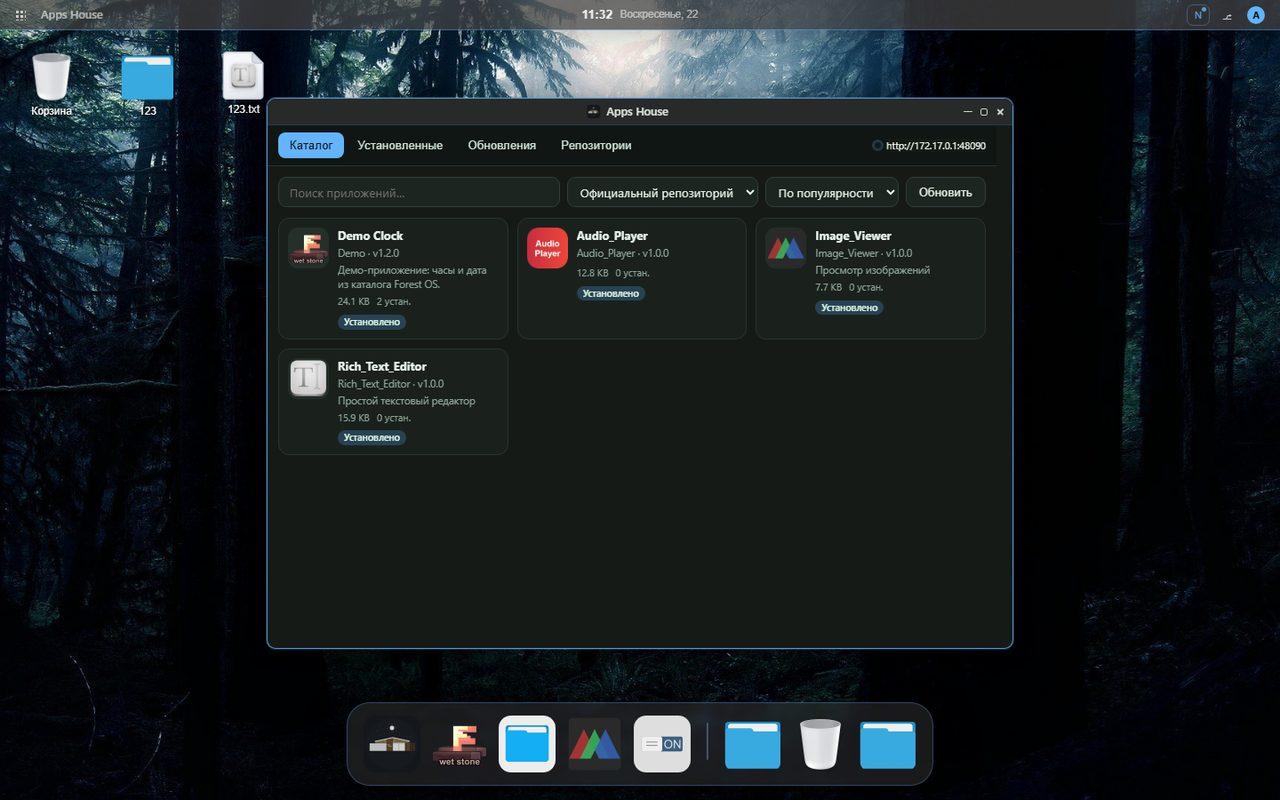
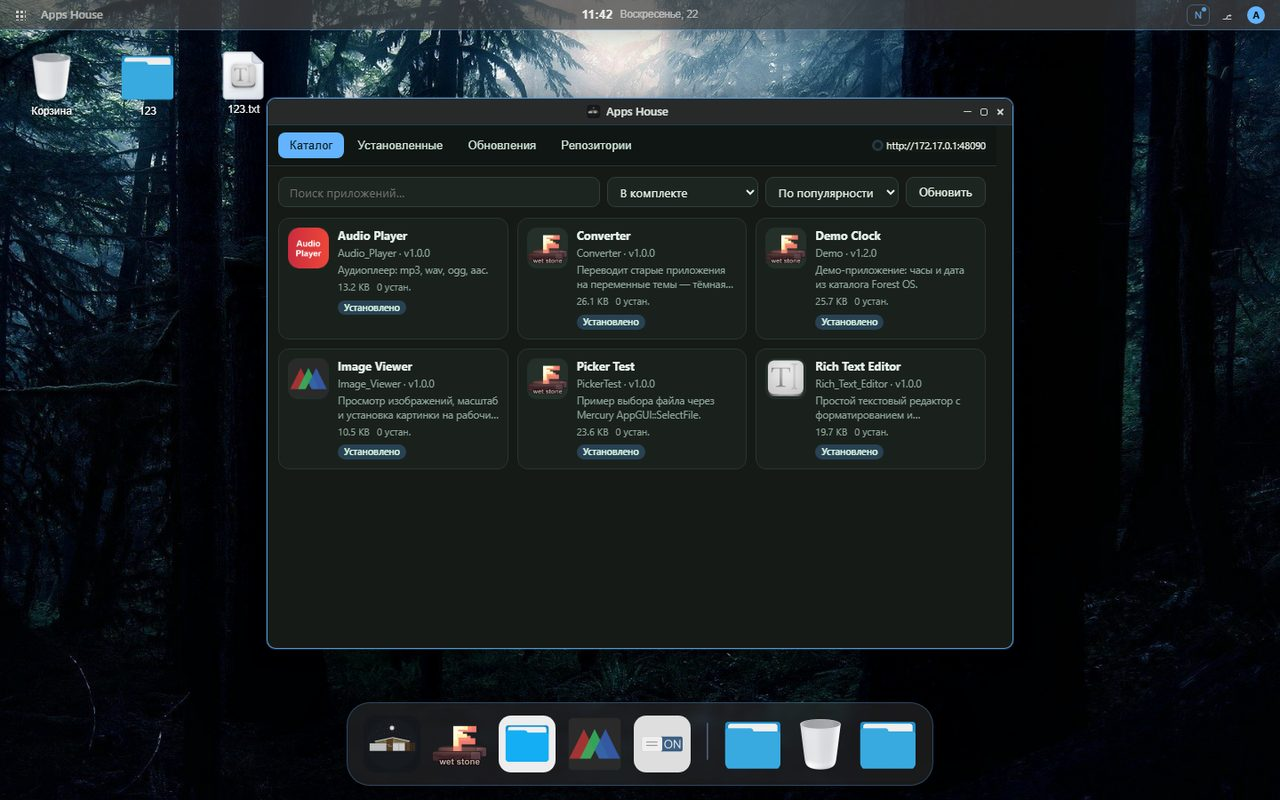
store: label bundled source cleanly; refresh Apps House screenshot

diff --git a/system/core/library/appstore.php b/system/core/library/appstore.php
@@ -492,7 +492,7 @@ class AppStore
             'name' => 'В комплекте',
             'url' => 'catalog/',
             'pubkey' => '',
-            'official' => false,
+            'official' => true,
             'builtin' => true,
         );
         foreach ($this->hubRepos() as $r) {
